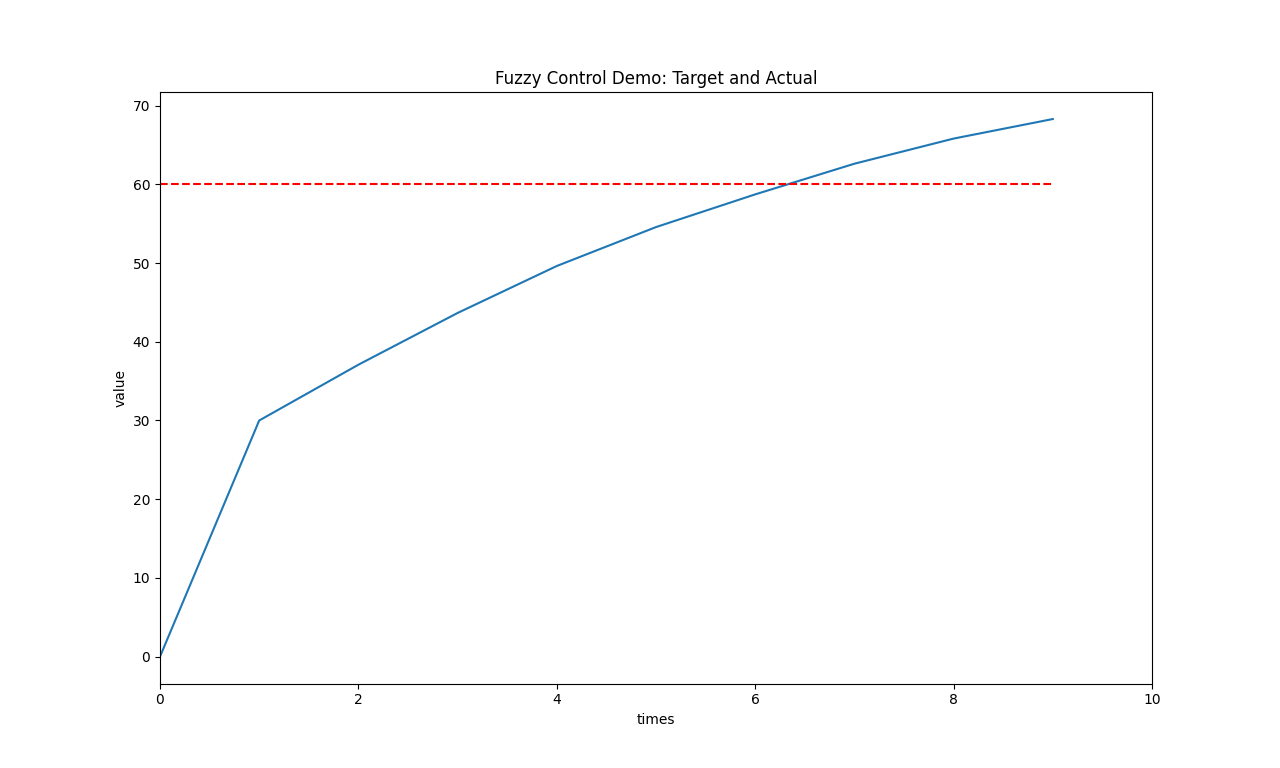
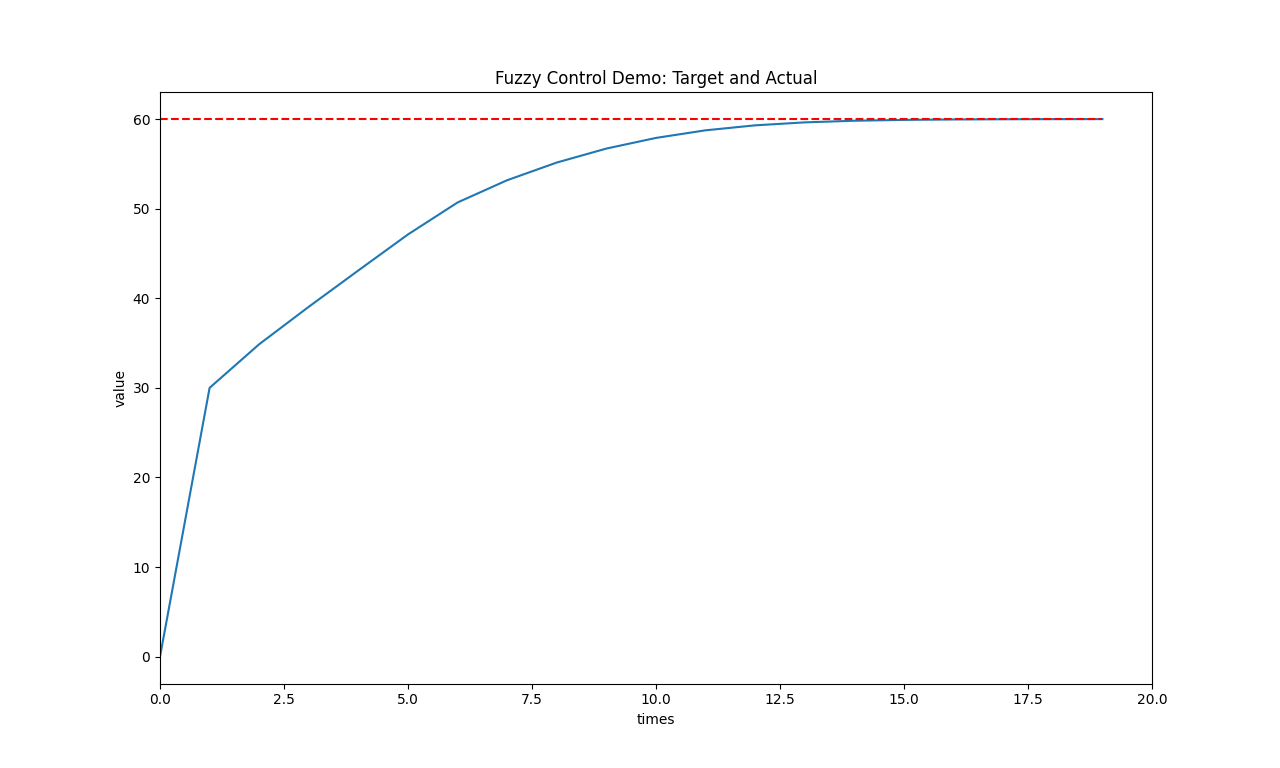
fix: fix the rule table config error and correct the mapping from discourses to rules

diff --git a/src/fuzzy_logic.cc b/src/fuzzy_logic.cc
@@ -35,6 +35,7 @@ void Fuzzification::fuzzify(scalar input) {
         premise = membership_->calculate(input, membership_->getParamSet(idx));
         if (premise != std::nullopt && fabs(premise.value()) >= fc::eps) {
             premise_pairs_.emplace_back(std::make_pair(premise.value(), idx));
+            dbgmsgln("[fuzzify] %s - premise: %.3f, discourse ID: %llu", getName().c_str(), premise.value(), idx);
         }
     }
 }
@@ -95,12 +96,17 @@ void FuzzyLogic::inference(void) {
     size_t rows = e->premise_pairs_.size();
     size_t cols = ec->premise_pairs_.size();
 
+    size_t e_discourse_size  = e->membership_->getDiscourseSize();
+    size_t ec_discourse_size = ec->membership_->getDiscourseSize();
+
     for (size_t i = 0; i < rows; i++) {
         for (size_t j = 0; j < cols; j++) {
-            const auto [e_premise, e_discourse_id] = e->premise_pairs_.at(i);
+            const auto [e_premise, e_discourse_id]   = e->premise_pairs_.at(i);
             const auto [ec_premise, ec_discourse_id] = ec->premise_pairs_.at(j);
             inference_set.weight = e_premise * ec_premise;
-            inference_set.rule = static_cast<int>(rule_table_(e_discourse_id, ec_discourse_id));
+            inference_set.rule = static_cast<int>(rule_table_(e_discourse_size - 1 - e_discourse_id, ec_discourse_size - 1 - ec_discourse_id));
+            dbgmsgln("[Inference] rule %llu => RuleTable(%llu, %llu)=%d, Weight=%.4f",
+                (i * rows + j), e_discourse_id, ec_discourse_id, inference_set.rule, inference_set.weight);
             // If the rule overlaps the map stored, we need to keep the higher weight one.
             if(auto res = inference_map_.find(inference_set.rule); res != inference_map_.end()) {
                 res->second = fmax(inference_set.weight, res->second);
@@ -136,10 +142,13 @@ scalar FuzzyLogic::defuzzify(void) {
     scalar num = 0, den = 0;
     for (const auto& [rule, weight]: inference_map_) {
         const size_t rule_id = static_cast<size_t>(rule) + u->membership_->getDiscourseSize() / 2;
+        dbgmsgln("[defuzzify] rule id %d, Weight %.4f", rule, weight);
         const auto [x_centroid, area] = centroid(rule_id, weight);
         num += x_centroid;
         den += area;
     }
+    // prepare for next iteration
+    inference_map_.clear();
 
     return num / den;
 }
@@ -226,8 +235,6 @@ void FuzzyLogic::plotFuzzyControlSurface(bool show) {
     double e_discourse_bound = static_cast<double>(e->membership_->getDiscourseSize() / 2);
     double ec_discourse_bound = static_cast<double>(ec->membership_->getDiscourseSize() / 2);
 
-    printf("Rows(%f,%f) Cols(%f,%f)\n", -e_discourse_bound, e_discourse_bound, -ec_discourse_bound, ec_discourse_bound);
-
     for (double i = -e_discourse_bound; i <= e_discourse_bound;  i++) {
         std::vector<double> x_row, y_row, z_row;
         for (double j = -ec_discourse_bound; j <= ec_discourse_bound;  j++) {
@@ -244,7 +251,7 @@ void FuzzyLogic::plotFuzzyControlSurface(bool show) {
     if (!show) {
         plt::figure_size(1280, 768);
     }
-    // elevation=18, azimuth=-133
+    // elevation=20, azimuth=45
     plt::plot_surface(x, y, z, {{"linewidth", "2"}, {"antialiased", "True"}});
     plt::xlabel("e");
     plt::ylabel("ec");

diff --git a/src/demo.cc b/src/demo.cc
@@ -58,13 +58,13 @@ int main (int argc,char *argv[]) {
 
     fc::Matrix rule_table;
     rule_table.resize(rows, cols);
-    rule_table << NB,NB,NM,NM,NS,ZO,ZO,
-                  NB,NB,NM,NS,NS,ZO,PS,
-                  NM,NM,NM,NS,ZO,PS,PS,
-                  NM,NM,NS,ZO,PS,PM,PM,
-                  NS,NS,ZO,PS,PS,PM,PM,
-                  NS,ZO,PS,PM,PM,PM,PB,
-                  ZO,ZO,PM,PM,PM,PB,PB;
+    rule_table << PB,PB,PM,PM,PS,ZO,ZO,
+                  PB,PM,PM,PS,PS,ZO,NS,
+                  PM,PM,PS,PS,ZO,NS,NS,
+                  PM,PM,PS,ZO,NS,NM,NM,
+                  PS,PS,ZO,NS,NS,NM,NM,
+                  PS,ZO,NS,NM,NM,NB,NB,
+                  ZO,ZO,NM,NM,NM,NB,NB;
 
     fuzzy.setFuzzyRules(rule_table);
 
@@ -80,7 +80,7 @@ int main (int argc,char *argv[]) {
     control.target = 60.0;
     control.actual = 0.0;
 
-    const int times = 10;
+    const int times = 20;
     for (int i = 0; i < times; i++) {
         control.actual += fuzzy.algo(control, true);
     }
